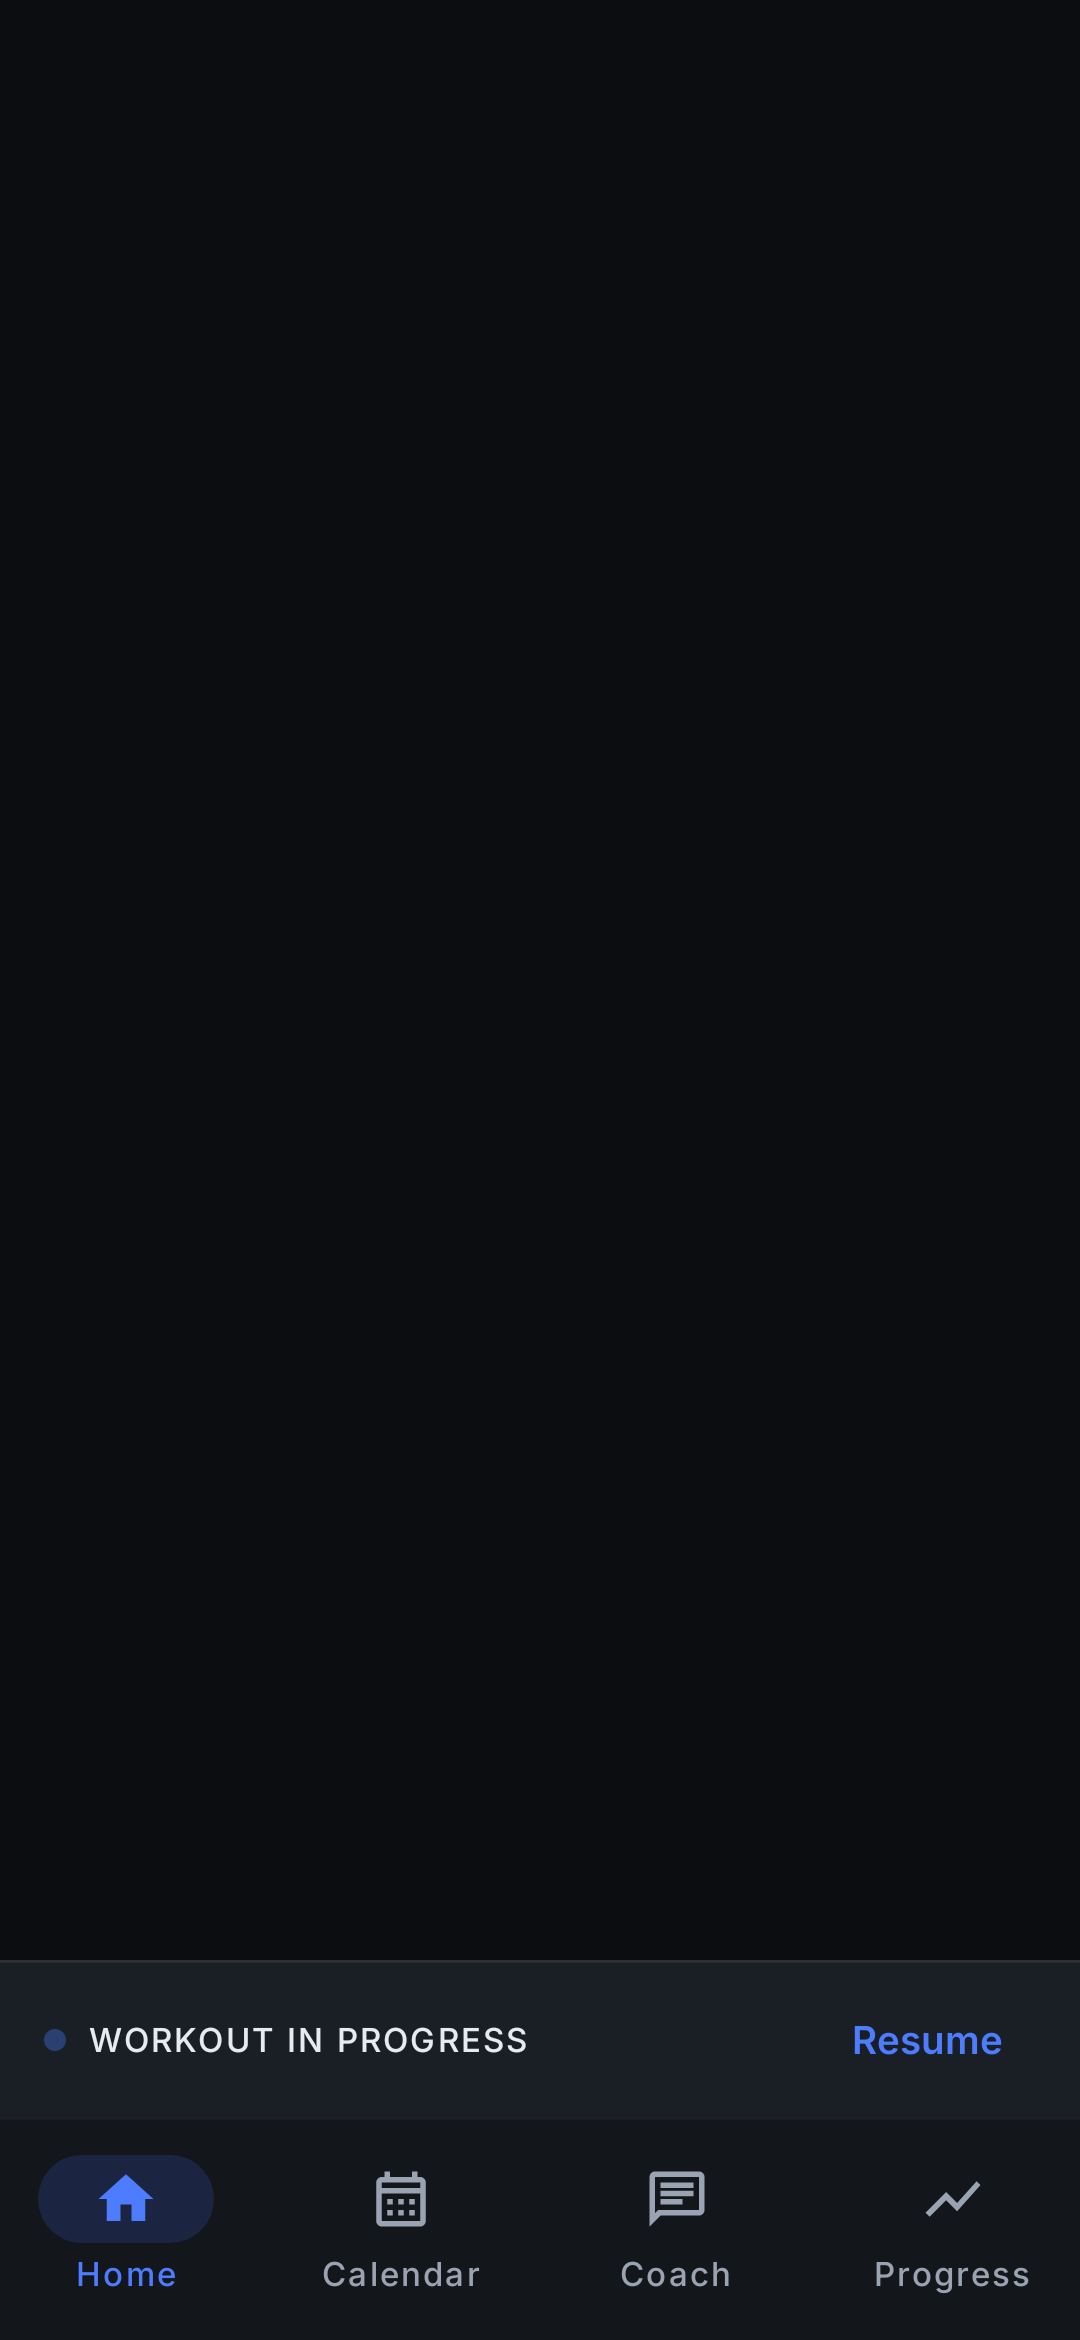
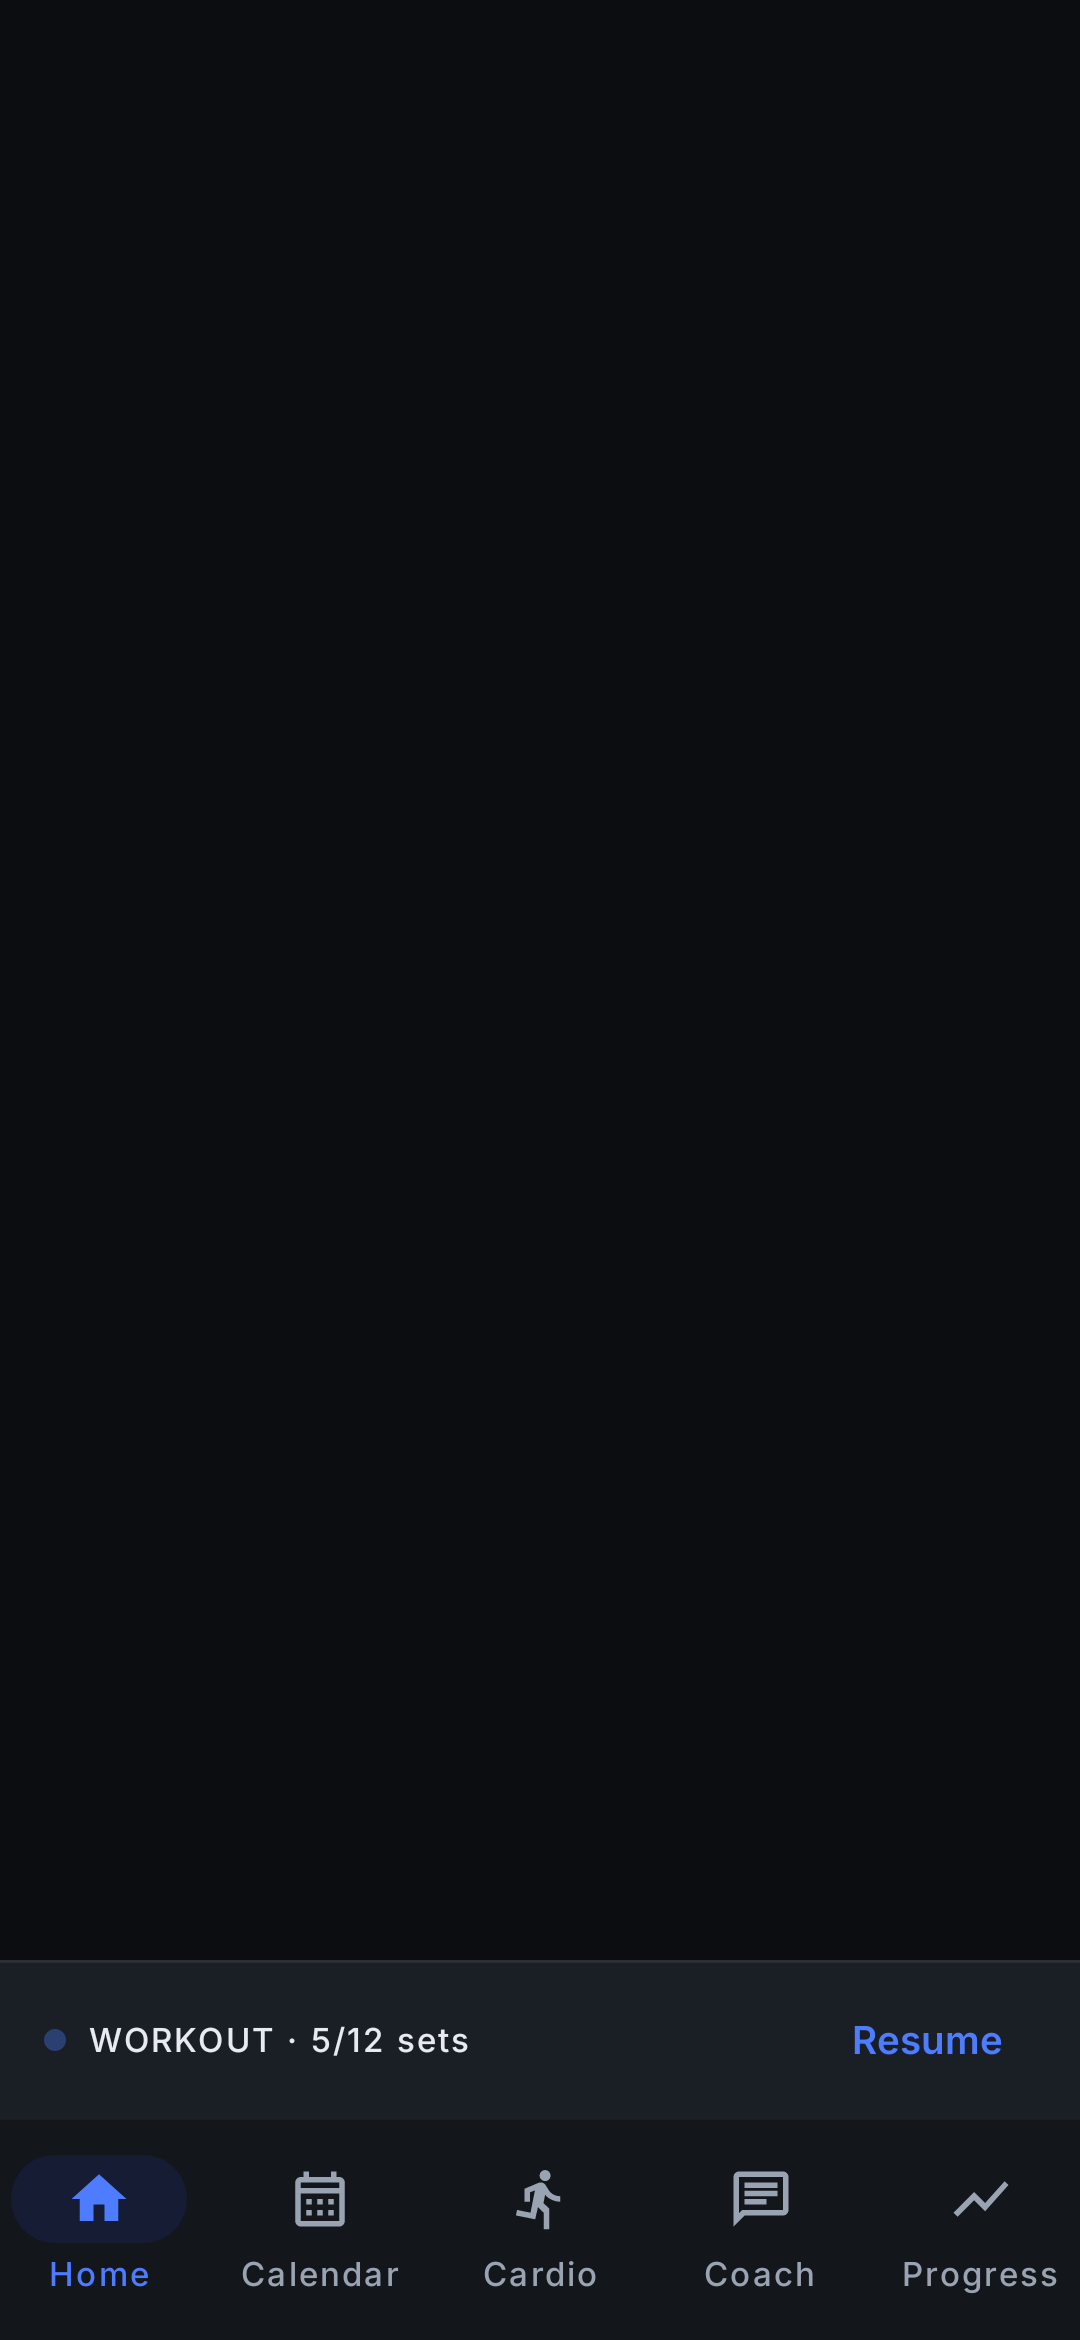
Audit the UI with Sift and fix the gating contrast findings (#44)
* Audit the UI with Sift and fix the gating contrast findings

Wire the Sift design-slop audit into the app and resolve every error-severity
finding so the audit gates green (130 -> 0 across both sister apps).

Wiring (test-only):
- settings.gradle.kts includeBuild("../../Sift"); app testImplementation
  style.sift:sift-compose; SpotterDesignSlopTest reuses the existing screenshot
  scenes (now internal); app/.sift/config.json.

Contrast fixes (WCAG AA), on the shared PULSE tokens so Plate gets them too:
- Hero gradient starts at PulseBlueDeep (white CTA/greeting text 3.7:1 -> 5.2:1);
  the PulseBlue accent token stays light for accent-text-on-dark (5.2:1).
- Darker effortDim pill fills so channel text (e.g. the ACTIVE badge) clears 4.5:1.
- onEnergy: a warm dark ink (dark in BOTH themes) for content on the orange/amber
  energy gradient; white was ~2.1:1, onEnergy is 7.6-8.8:1. Fixes the "Return to
  Home" CTA (onStreak was white in light theme).
- Hero subtitle uses full white (not 0.85 alpha) to clear AA.
- Sign-out scene mirrors the screen's tonal errorContainer treatment (11:1).

Audit config:
- tiny-touch-target downgraded to warn (non-gating): Material3 enforces a 48dp
  touch target via minimumInteractiveComponentSize() that isn't reflected in the
  semantics layout bounds Sift measures.
- Ignore the OutlinedTextField outline false positive (Sift samples the gray
  outline, not the dark value glyphs).
[…]

diff --git a/android/app/src/test/java/com/spotter/screenshot/ScreenshotTest.kt b/android/app/src/test/java/com/spotter/screenshot/ScreenshotTest.kt
@@ -130,7 +130,7 @@ class ScreenshotTest {
 }
 
 @Composable
-private fun HomeScene() {
+internal fun HomeScene() {
     val pulse = SpotterTheme.pulse
     Column(
         Modifier
@@ -151,7 +151,7 @@ private fun HomeScene() {
             Text(
                 "Next up: Push Day · Today",
                 style = MaterialTheme.typography.bodyMedium,
-                color = Color.White.copy(alpha = 0.85f),
+                color = Color.White,
             )
         }
         Row(Modifier.fillMaxWidth(), horizontalArrangement = Arrangement.spacedBy(8.dp)) {
@@ -200,7 +200,7 @@ private fun HomeScene() {
 }
 
 @Composable
-private fun SummaryScene(prCount: Int = 0, perfect: Boolean = true) {
+internal fun SummaryScene(prCount: Int = 0, perfect: Boolean = true) {
     val pulse = SpotterTheme.pulse
     Column(
         Modifier
@@ -273,6 +273,7 @@ private fun SummaryScene(prCount: Int = 0, perfect: Boolean = true) {
         PulseButton(
             text = "Return to Home",
             gradient = pulse.energyGradient,
+            onChannel = pulse.onEnergy,
             onClick = {},
             modifier = Modifier.fillMaxWidth().padding(horizontal = 16.dp),
         )
@@ -296,7 +297,7 @@ private fun SummaryStat(modifier: Modifier, value: String, label: String) {
 }
 
 @Composable
-private fun WorkoutScene() {
+internal fun WorkoutScene() {
     val pulse = SpotterTheme.pulse
     fun set(n: Int, reps: Int, w: Double?, done: Boolean) = SetLogOut(
         id = "s$n", sessionId = "x", exerciseId = "e", setNumber = n,
@@ -364,7 +365,7 @@ private fun WorkoutScene() {
 }
 
 @Composable
-private fun StatesScene() {
+internal fun StatesScene() {
     EmptyState(
         icon = Icons.AutoMirrored.Filled.Chat,
         title = "Meet your AI Coach",
@@ -374,7 +375,7 @@ private fun StatesScene() {
 }
 
 @Composable
-private fun ProgressScene() {
+internal fun ProgressScene() {
     val pulse = SpotterTheme.pulse
     // Renders the genuine LineChart component (internal) with sample data.
     val points = listOf(135f, 140f, 138f, 145f, 150f, 148f, 155f, 160f)
@@ -411,7 +412,7 @@ private fun ProgressScene() {
 }
 
 @Composable
-private fun LoginScene() {
+internal fun LoginScene() {
     var email by remember { mutableStateOf("casey@spotter.app") }
     var password by remember { mutableStateOf("••••••••") }
     Column(
@@ -441,7 +442,7 @@ private fun LoginScene() {
 }
 
 @Composable
-private fun OnboardingScene() {
+internal fun OnboardingScene() {
     val pulse = SpotterTheme.pulse
     Column(
         Modifier.fillMaxSize().padding(24.dp),
@@ -486,7 +487,7 @@ private fun OptionCardPreview(label: String, selected: Boolean) {
 
 /** The coach's live-workout adjustment card (Apply + future-workouts toggle). */
 @Composable
-private fun CoachAdjustmentScene() {
+internal fun CoachAdjustmentScene() {
     val pulse = SpotterTheme.pulse
     var applyToRoutine by remember { mutableStateOf(true) }
     Column(Modifier.fillMaxSize().padding(16.dp), verticalArrangement = Arrangement.spacedBy(8.dp)) {
@@ -531,7 +532,7 @@ private fun CoachAdjustmentScene() {
 
 /** The app shell: in-progress session strip stacked over the bottom navigation bar. */
 @Composable
-private fun ShellScene() {
+internal fun ShellScene() {
     Column(Modifier.fillMaxSize(), verticalArrangement = Arrangement.Bottom) {
         ActiveSessionBar(
             ui = ActiveBarUi.Workout(
@@ -586,7 +587,7 @@ private fun IconMask(shape: androidx.compose.ui.graphics.Shape, size: androidx.c
 }
 
 @Composable
-private fun SettingsScene() {
+internal fun SettingsScene() {
     val pulse = SpotterTheme.pulse
     Column(
         Modifier.fillMaxSize().verticalScroll(rememberScrollState()).padding(16.dp),
@@ -628,17 +629,23 @@ private fun SettingsScene() {
         PanelCard(Modifier.fillMaxWidth()) {
             SectionHeader("Account")
             Spacer(Modifier.height(8.dp))
+            // Tonal error treatment (mirrors the real SettingsScreen): white on the saturated error
+            // red is only ~3:1; errorContainer/onErrorContainer is legible (11:1) and still reads
+            // as destructive.
             Button(
                 onClick = {},
                 modifier = Modifier.fillMaxWidth(),
-                colors = ButtonDefaults.buttonColors(containerColor = MaterialTheme.colorScheme.error),
+                colors = ButtonDefaults.buttonColors(
+                    containerColor = MaterialTheme.colorScheme.errorContainer,
+                    contentColor = MaterialTheme.colorScheme.onErrorContainer,
+                ),
             ) { Text("Sign out") }
         }
     }
 }
 
 @Composable
-private fun CalendarScene() {
+internal fun CalendarScene() {
     val pulse = SpotterTheme.pulse
     Column(Modifier.fillMaxSize().padding(16.dp), verticalArrangement = Arrangement.spacedBy(12.dp)) {
         SectionHeader("June 2026")

diff --git a/android/app/src/test/sift/com/spotter/screenshot/DesignSlopTest.kt b/android/app/src/test/sift/com/spotter/screenshot/DesignSlopTest.kt
@@ -1,0 +1,56 @@
+package com.spotter.screenshot
+
+import androidx.compose.foundation.layout.fillMaxSize
+import androidx.compose.material3.MaterialTheme
+import androidx.compose.material3.Surface
+import androidx.compose.runtime.Composable
+import androidx.compose.ui.Modifier
+import com.spotter.ui.theme.SpotterTheme
+import style.sift.compose.DesignSlopSuite
+import style.sift.compose.TokenScan
+import style.sift.core.config.SiftConfig
+import java.io.File
+
+/**
+ * Sift design-slop audit for Spotter (CLAUDE.md §7 of the Sift repo). Reuses the exact scene
+ * helpers the Roborazzi [ScreenshotTest] renders — same PULSE components, same sample data — so the
+ * audit and the screenshots never drift. The inherited `audit()` renders each scene on Robolectric
+ * NATIVE graphics, runs the rule catalog, writes `build/sift/report.json`, and fails on any
+ * error-severity finding (low-contrast-text / tiny-touch-target).
+ *
+ * Tokens are scanned from Spotter's theme package so the palette/font rules see the real design
+ * intent. Config is read from `.sift/config.json` (module-relative), falling back to defaults.
+ */
+class SpotterDesignSlopTest : DesignSlopSuite(
+    config = SiftConfig.fromFileOrDefault(),
+    tokens = TokenScan.scan(listOf(File("src/main/java/com/spotter/ui/theme"))),
+) {
+    init {
+        register("home") { HomeScene() }
+        register("summary") { SummaryScene(prCount = 2, perfect = true) }
+        register("workout") { WorkoutScene() }
+        register("states") { StatesScene() }
+        register("progress") { ProgressScene() }
+        register("login") { LoginScene() }
+        register("onboarding") { OnboardingScene() }
+        register("coach_adjustment") { CoachAdjustmentScene() }
+        register("settings") { SettingsScene() }
+        register("calendar") { CalendarScene() }
+        register("shell") { ShellScene() }
+    }
+
+    /** Register a scene in both dark and light, themed + backed by a themed Surface like MainActivity. */
+    private fun register(name: String, content: @Composable () -> Unit) {
+        scene(name, dark = true) { Themed(dark = true, content) }
+        scene(name, dark = false) { Themed(dark = false, content) }
+    }
+}
+
+@Composable
+private fun Themed(dark: Boolean, content: @Composable () -> Unit) {
+    SpotterTheme(darkTheme = dark) {
+        Surface(modifier = Modifier.fillMaxSize(), color = MaterialTheme.colorScheme.background) {
+            content()
+        }
+    }
+}

diff --git a/android/app/src/main/java/com/spotter/ui/theme/Pulse.kt b/android/app/src/main/java/com/spotter/ui/theme/Pulse.kt
@@ -46,10 +46,13 @@ data class PulseColors(
     // Brand gradients
     val heroGradient: Brush,    // blue → indigo: greeting, primary CTAs
     val energyGradient: Brush,  // orange → amber: streak/celebration moments
+    // Content color for text/icons ON the energy gradient. Dark in BOTH themes (the gradient is
+    // light orange/amber in both): white on it is only ~2.1:1, this warm ink is 7.6–8.8:1.
+    val onEnergy: Color,
 )
 
 fun darkPulseColors() = PulseColors(
-    effort = PulseBlue, effortDim = Color(0xFF1B2440), onEffort = Color(0xFFFFFFFF),
+    effort = PulseBlue, effortDim = Color(0xFF151C33), onEffort = Color(0xFFFFFFFF),
     strength = PulseViolet, strengthDim = Color(0xFF231F3F), onStrength = Color(0xFF120A38),
     streak = PulseOrange, streakDim = Color(0xFF3B2418), onStreak = Color(0xFF2B1100),
     recovery = PulseGreen, recoveryDim = Color(0xFF11332A), onRecovery = Color(0xFF00301F),
@@ -58,12 +61,16 @@ fun darkPulseColors() = PulseColors(
     panel = PulsePanel,
     panelHigh = PulsePanelHigh,
     glow = PulseBlue,
-    heroGradient = Brush.linearGradient(listOf(PulseBlue, PulseIndigo)),
+    // Hero gradient starts at PulseBlueDeep (not PulseBlue): white CTA/greeting text needs >= 4.5:1
+    // and white-on-PulseBlue is only 3.72:1, while white-on-PulseBlueDeep is 5.20:1. PulseBlue stays
+    // the accent-text token (kept light for 5.23:1 on dark surfaces).
+    heroGradient = Brush.linearGradient(listOf(PulseBlueDeep, PulseIndigo)),
     energyGradient = Brush.linearGradient(listOf(PulseOrange, PulseAmber)),
+    onEnergy = Color(0xFF2B1100),
 )
 
 fun lightPulseColors() = PulseColors(
-    effort = PulseBlueDeep, effortDim = Color(0xFFDEE7FF), onEffort = Color(0xFFFFFFFF),
+    effort = PulseBlueDeep, effortDim = Color(0xFFECF1FF), onEffort = Color(0xFFFFFFFF),
     strength = PulseVioletDeep, strengthDim = Color(0xFFE6E2FB), onStrength = Color(0xFFFFFFFF),
     streak = PulseOrangeDeep, streakDim = Color(0xFFFBE3D4), onStreak = Color(0xFFFFFFFF),
     recovery = PulseGreenDeep, recoveryDim = Color(0xFFD8F3E8), onRecovery = Color(0xFFFFFFFF),
@@ -74,6 +81,7 @@ fun lightPulseColors() = PulseColors(
     glow = PulseBlueDeep,
     heroGradient = Brush.linearGradient(listOf(PulseBlueDeep, PulseIndigoDeep)),
     energyGradient = Brush.linearGradient(listOf(Color(0xFFFF6B35), PulseAmber)),
+    onEnergy = Color(0xFF2B1100),
 )
 
 val LocalPulse = staticCompositionLocalOf { darkPulseColors() }

diff --git a/android/app/src/main/java/com/spotter/ui/settings/SettingsScreen.kt b/android/app/src/main/java/com/spotter/ui/settings/SettingsScreen.kt
@@ -301,8 +301,12 @@ fun SettingsScreen(
                 Button(
                     onClick = { viewModel.logout() },
                     modifier = Modifier.fillMaxWidth(),
+                    // Tonal error treatment: white on the saturated error red is only ~3:1; the
+                    // errorContainer/onErrorContainer pair is legible (11:1) and still reads as a
+                    // destructive action.
                     colors = ButtonDefaults.buttonColors(
-                        containerColor = MaterialTheme.colorScheme.error,
+                        containerColor = MaterialTheme.colorScheme.errorContainer,
+                        contentColor = MaterialTheme.colorScheme.onErrorContainer,
                     ),
                 ) {
                     Text("Sign out")

diff --git a/android/app/src/main/java/com/spotter/ui/workout/WorkoutSummaryScreen.kt b/android/app/src/main/java/com/spotter/ui/workout/WorkoutSummaryScreen.kt
@@ -246,6 +246,9 @@ fun WorkoutSummaryScreen(
             PulseButton(
                 text = "Return to Home",
                 gradient = pulse.energyGradient,
+                // White on the orange/amber energy gradient is only ~2.1:1; onEnergy is a warm dark
+                // ink (dark in BOTH themes — onStreak is white in light) that clears AA (7.6-8.8:1).
+                onChannel = pulse.onEnergy,
                 onClick = {
                     navController.navigate(Screen.Home.route) {
                         popUpTo(Screen.Home.route) { inclusive = true }

diff --git a/android/app/src/main/java/com/spotter/ui/home/HomeScreen.kt b/android/app/src/main/java/com/spotter/ui/home/HomeScreen.kt
@@ -303,7 +303,8 @@ private fun GreetingPanel(greeting: String, nextWorkout: UpcomingWorkout?) {
         Text(
             text = status,
             style = MaterialTheme.typography.bodyMedium,
-            color = Color.White.copy(alpha = 0.85f),
+            // Full white (not 0.85 alpha) so the subtitle clears AA on the hero gradient.
+            color = Color.White,
         )
     }
 }
